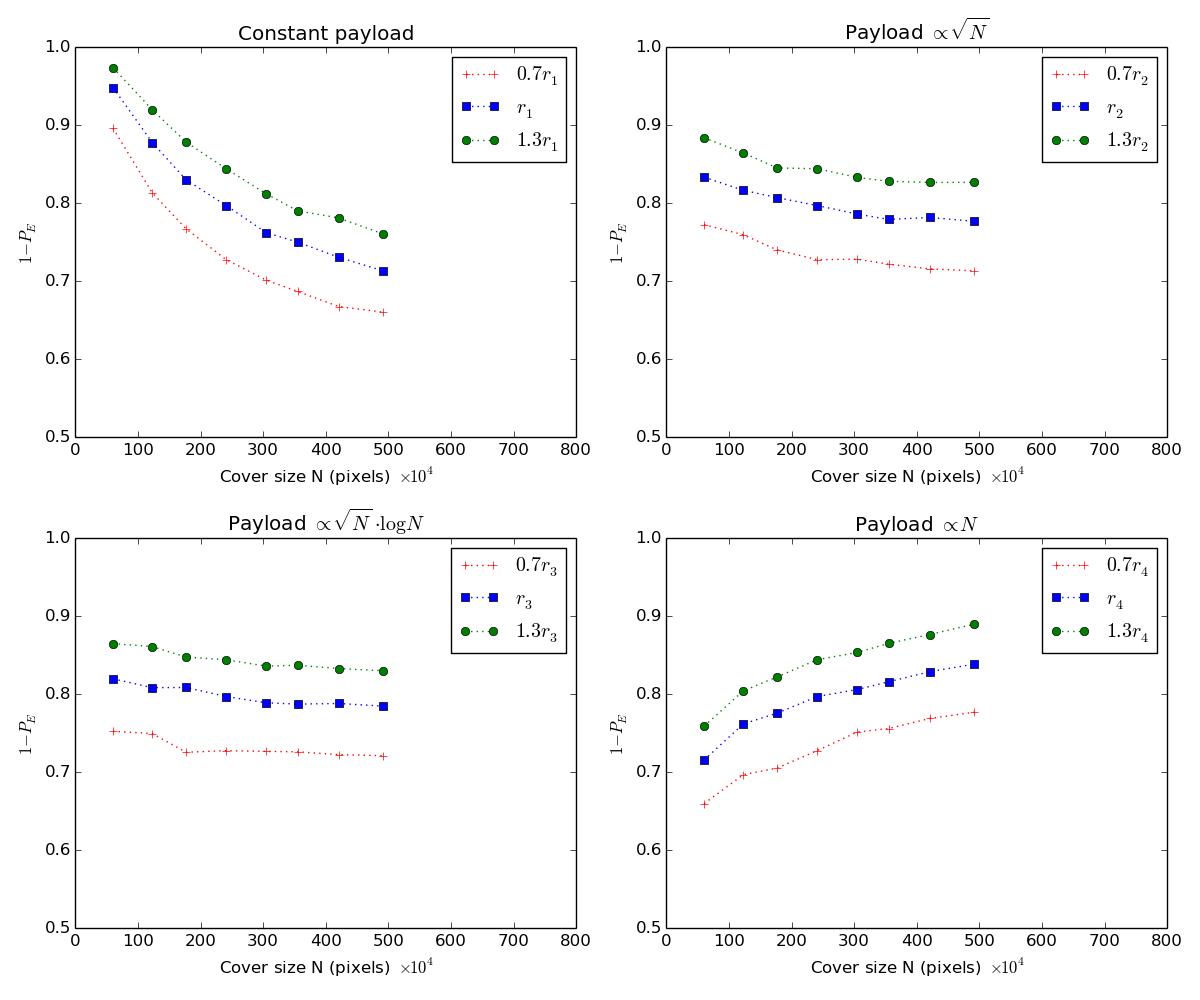
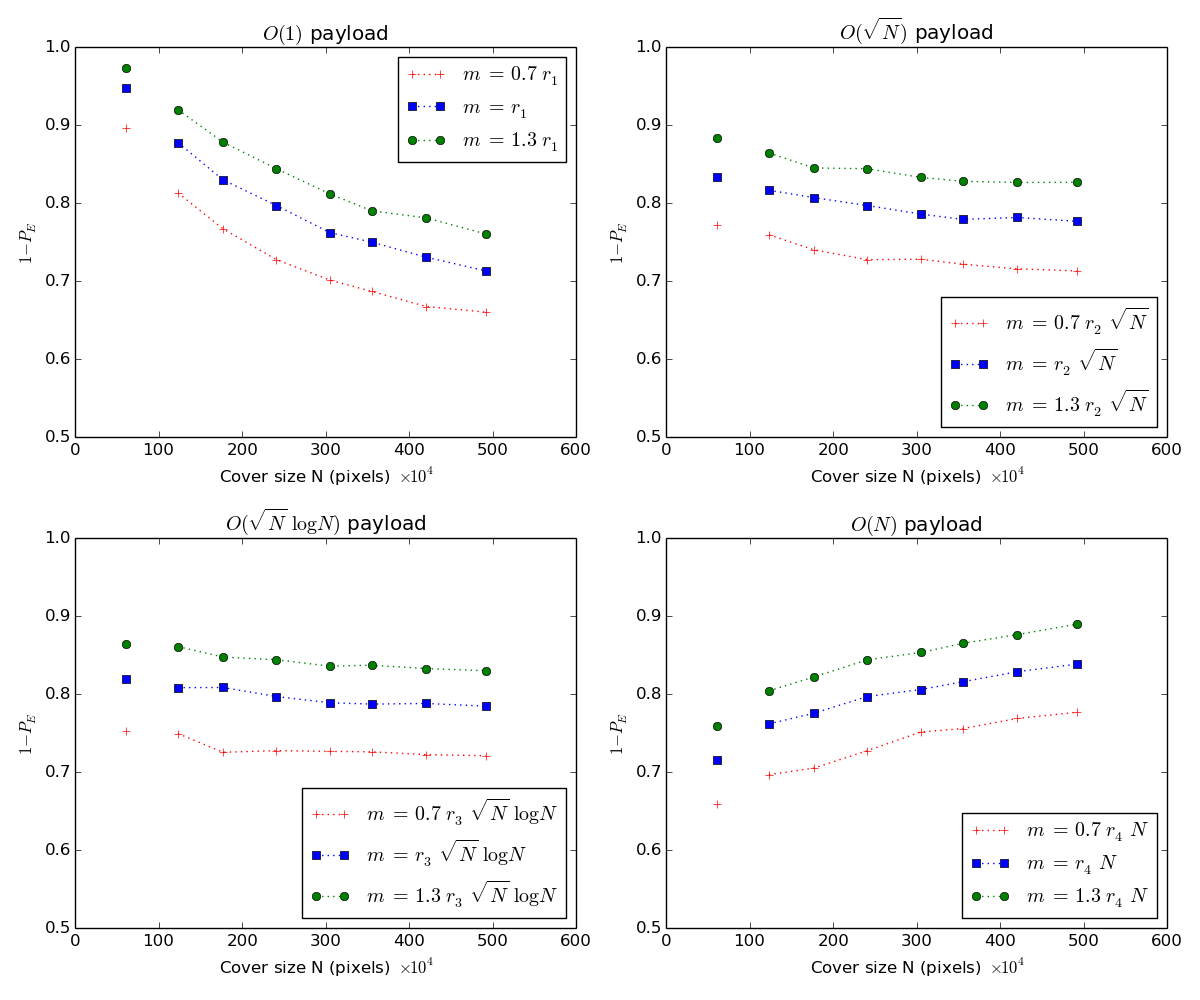
Update BOSSbase detectability graphs to detach smallest image size

diff --git a/results/bossbase_plot_detectability_graph.py b/results/bossbase_plot_detectability_graph.py
@@ -37,7 +37,7 @@ y4_l = [1-0.2409, 1-0.1955, 1-0.1776, 1-0.1556, 1-0.1463, 1-0.1346, 1-0.1233, 1-
 
 x_label = r'Cover size N (pixels) $\times 10^4$'
 y_label = r'$1-P_E$'
-axis_bounds = [0,800,0.5,1.0]
+axis_bounds = [0,600,0.5,1.0]
 
 if args.rate == 0:  # Plot all four payload rates
     # Create plot
@@ -45,51 +45,63 @@ if args.rate == 0:  # Plot all four payload rates
 
     # Constant payload
     plt.subplot(2,2,1)
-    plt.plot(x, y1_s, 'r+:', label=r'$0.7 r_1$')
-    plt.plot(x, y1_m, 'bs:', label=r'$r_1$')
-    plt.plot(x, y1_l, 'go:', label=r'$1.3 r_1$')
+    plt.plot(x[0], y1_s[0], 'r+')
+    plt.plot(x[0], y1_m[0], 'bs')
+    plt.plot(x[0], y1_l[0], 'go')
+    plt.plot(x[1:], y1_s[1:], 'r+:', label=r'$m\ =\ 0.7\ r_1$')
+    plt.plot(x[1:], y1_m[1:], 'bs:', label=r'$m\ =\ r_1$')
+    plt.plot(x[1:], y1_l[1:], 'go:', label=r'$m\ =\ 1.3\ r_1$')
     plt.axis(axis_bounds)
     plt.xlabel(x_label)
     plt.ylabel(y_label)
     if args.with_title:
-        plt.title(r'Constant payload')
+        plt.title(r'$O(1)$ payload')
     plt.legend(loc='upper right')
 
     # Payload proportional to sqrt(N)
     plt.subplot(2,2,2)
-    plt.plot(x, y2_s, 'r+:', label=r'$0.7 r_2$')
-    plt.plot(x, y2_m, 'bs:', label=r'$r_2$')
-    plt.plot(x, y2_l, 'go:', label=r'$1.3 r_2$')
+    plt.plot(x[0], y2_s[0], 'r+')
+    plt.plot(x[0], y2_m[0], 'bs')
+    plt.plot(x[0], y2_l[0], 'go')
+    plt.plot(x[1:], y2_s[1:], 'r+:', label=r'$m\ =\ 0.7\ r_2\ \sqrt{N}$')
+    plt.plot(x[1:], y2_m[1:], 'bs:', label=r'$m\ =\ r_2\ \sqrt{N}$')
+    plt.plot(x[1:], y2_l[1:], 'go:', label=r'$m\ =\ 1.3\ r_2\ \sqrt{N}$')
     plt.axis(axis_bounds)
     plt.xlabel(x_label)
     plt.ylabel(y_label)
     if args.with_title:
-        plt.title(r'Payload $\propto \sqrt{N}$')
-    plt.legend(loc='upper right')
+        plt.title(r'$O(\sqrt{N})$ payload')
+    plt.legend(loc='lower right')
 
     # Payload proportional to sqrt(N) * log(N)
     plt.subplot(2,2,3)
-    plt.plot(x, y3_s, 'r+:', label=r'$0.7 r_3$')
-    plt.plot(x, y3_m, 'bs:', label=r'$r_3$')
-    plt.plot(x, y3_l, 'go:', label=r'$1.3 r_3$')
+    plt.plot(x[0], y3_s[0], 'r+')
+    plt.plot(x[0], y3_m[0], 'bs')
+    plt.plot(x[0], y3_l[0], 'go')
+    plt.plot(x[1:], y3_s[1:], 'r+:', label=r'$m\ =\ 0.7\ r_3\ \sqrt{N}\ \log{N}$')
+    plt.plot(x[1:], y3_m[1:], 'bs:', label=r'$m\ =\ r_3\ \sqrt{N}\ \log{N}$')
+    plt.plot(x[1:], y3_l[1:], 'go:', label=r'$m\ =\ 1.3\ r_3\ \sqrt{N}\ \log{N}$')
     plt.axis(axis_bounds)
     plt.xlabel(x_label)
     plt.ylabel(y_label)
     if args.with_title:
-        plt.title(r'Payload $\propto \sqrt{N} \cdot \log{N}$')
-    plt.legend(loc='upper right')
+        plt.title(r'$O(\sqrt{N}\ \log{N})$ payload')
+    plt.legend(loc='lower right')
 
     # Payload proportional to N
     plt.subplot(2,2,4)
-    plt.plot(x, y4_s, 'r+:', label=r'$0.7 r_4$')
-    plt.plot(x, y4_m, 'bs:', label=r'$r_4$')
-    plt.plot(x, y4_l, 'go:', label=r'$1.3 r_4$')
+    plt.plot(x[0], y4_s[0], 'r+')
+    plt.plot(x[0], y4_m[0], 'bs')
+    plt.plot(x[0], y4_l[0], 'go')
+    plt.plot(x[1:], y4_s[1:], 'r+:', label=r'$m\ =\ 0.7\ r_4\ N$')
+    plt.plot(x[1:], y4_m[1:], 'bs:', label=r'$m\ =\ r_4\ N$')
+    plt.plot(x[1:], y4_l[1:], 'go:', label=r'$m\ =\ 1.3\ r_4\ N$')
     plt.axis(axis_bounds)
     plt.xlabel(x_label)
     plt.ylabel(y_label)
     if args.with_title:
-        plt.title(r'Payload $\propto N$')
-    plt.legend(loc='upper right')
+        plt.title(r'$O(N)$ payload')
+    plt.legend(loc='lower right')
 
     # Save plot
     plt.tight_layout()
@@ -101,48 +113,61 @@ else:
     y_small = []
     y_med = []
     y_large = []
-    constant_name = ''
+    constant = ''
+    legend_location = ''
+    rate = ''
 
     if args.rate == 1:  # Constant payload
         y_small = y1_s
         y_med = y1_m
         y_large = y1_l
-        graph_title = r'Constant payload'
+        graph_title = r'$O(1)$ payload'
         file_desc = 'constant'
-        constant_name = r'$r_1$'
+        constant = r'$r_1$'
+        legend_location = 'upper right'
+        rate = ''
     elif args.rate == 2:  # Payload proportional to sqrt(N)
         y_small = y2_s
         y_med = y2_m
         y_large = y2_l
-        graph_title = r'Payload $\propto \sqrt{N}$'
+        graph_title = r'$O(\sqrt{N})$ payload'
         file_desc = 'sqrt'
-        constant_name = r'$r_2$'
+        constant = r'$r_2$'
+        legend_location = 'lower right'
+        rate = r'$\sqrt{N}$'
     elif args.rate == 3:  # Payload proportional to sqrt(N) * log(N)
         y_small = y3_s
         y_med = y3_m
         y_large = y3_l
-        graph_title = r'Payload $\propto \sqrt{N} \cdot \log{N}$'
+        graph_title = r'$O(\sqrt{N}\ \log{N})$ payload'
         file_desc = 'sqrt_log'
-        constant_name = r'$r_3$'
+        constant = r'$r_3$'
+        legend_location = 'lower right'
+        rate = r'$\sqrt{N}\ \log{N}$'
     else:  # Payload proportional to N
         y_small = y4_s
         y_med = y4_m
         y_large = y4_l
-        graph_title = r'Payload $\propto N$'
+        graph_title = r'$O(N)$ payload'
         file_desc = 'linear'
-        constant_name = r'$r_4$'
+        constant = r'$r_4$'
+        legend_location = 'lower right'
+        rate = r'$N$'
 
     # Create plot
     plt.figure(figsize=(6,5))
-    plt.plot(x, y_small, 'r+:', label=r'$0.7${}'.format(constant_name))
-    plt.plot(x, y_med, 'bs:', label=constant_name)
-    plt.plot(x, y_large, 'go:', label=r'$1.3${}'.format(constant_name))
+    plt.plot(x[0], y_small[0], 'r+')
+    plt.plot(x[0], y_med[0], 'bs')
+    plt.plot(x[0], y_large[0], 'go')
+    plt.plot(x[1:], y_small[1:], 'r+:', label=r'$m\ =\ 0.7\ ${}{}'.format(constant, rate))
+    plt.plot(x[1:], y_med[1:], 'bs:', label=r'$m\ =\ ${}{}'.format(constant, rate))
+    plt.plot(x[1:], y_large[1:], 'go:', label=r'$m\ =\ 1.3\ ${}{}'.format(constant, rate))
     plt.axis(axis_bounds)
     plt.xlabel(x_label)
     plt.ylabel(y_label)
     if args.with_title:
         plt.title(graph_title)
-    plt.legend(loc='upper right')
+    plt.legend(loc=legend_location)
 
     # Save plot
     plt.tight_layout()
